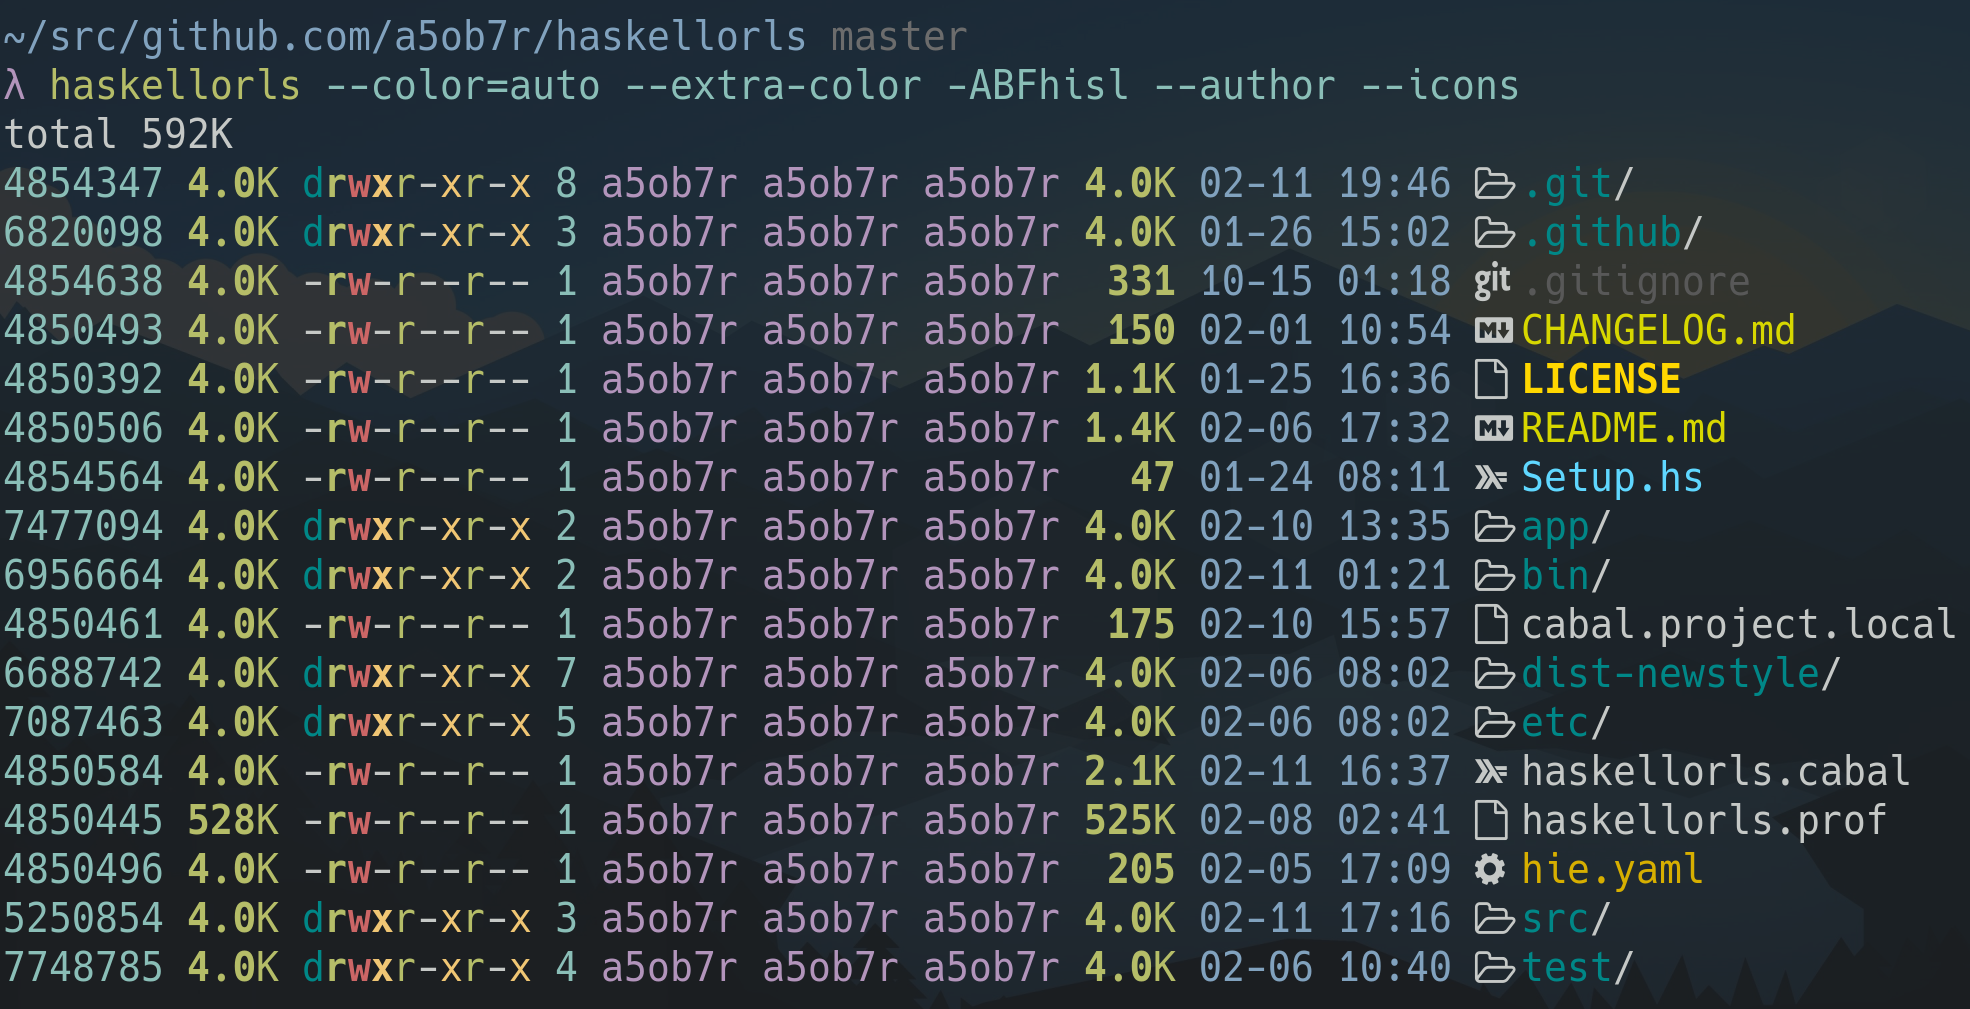
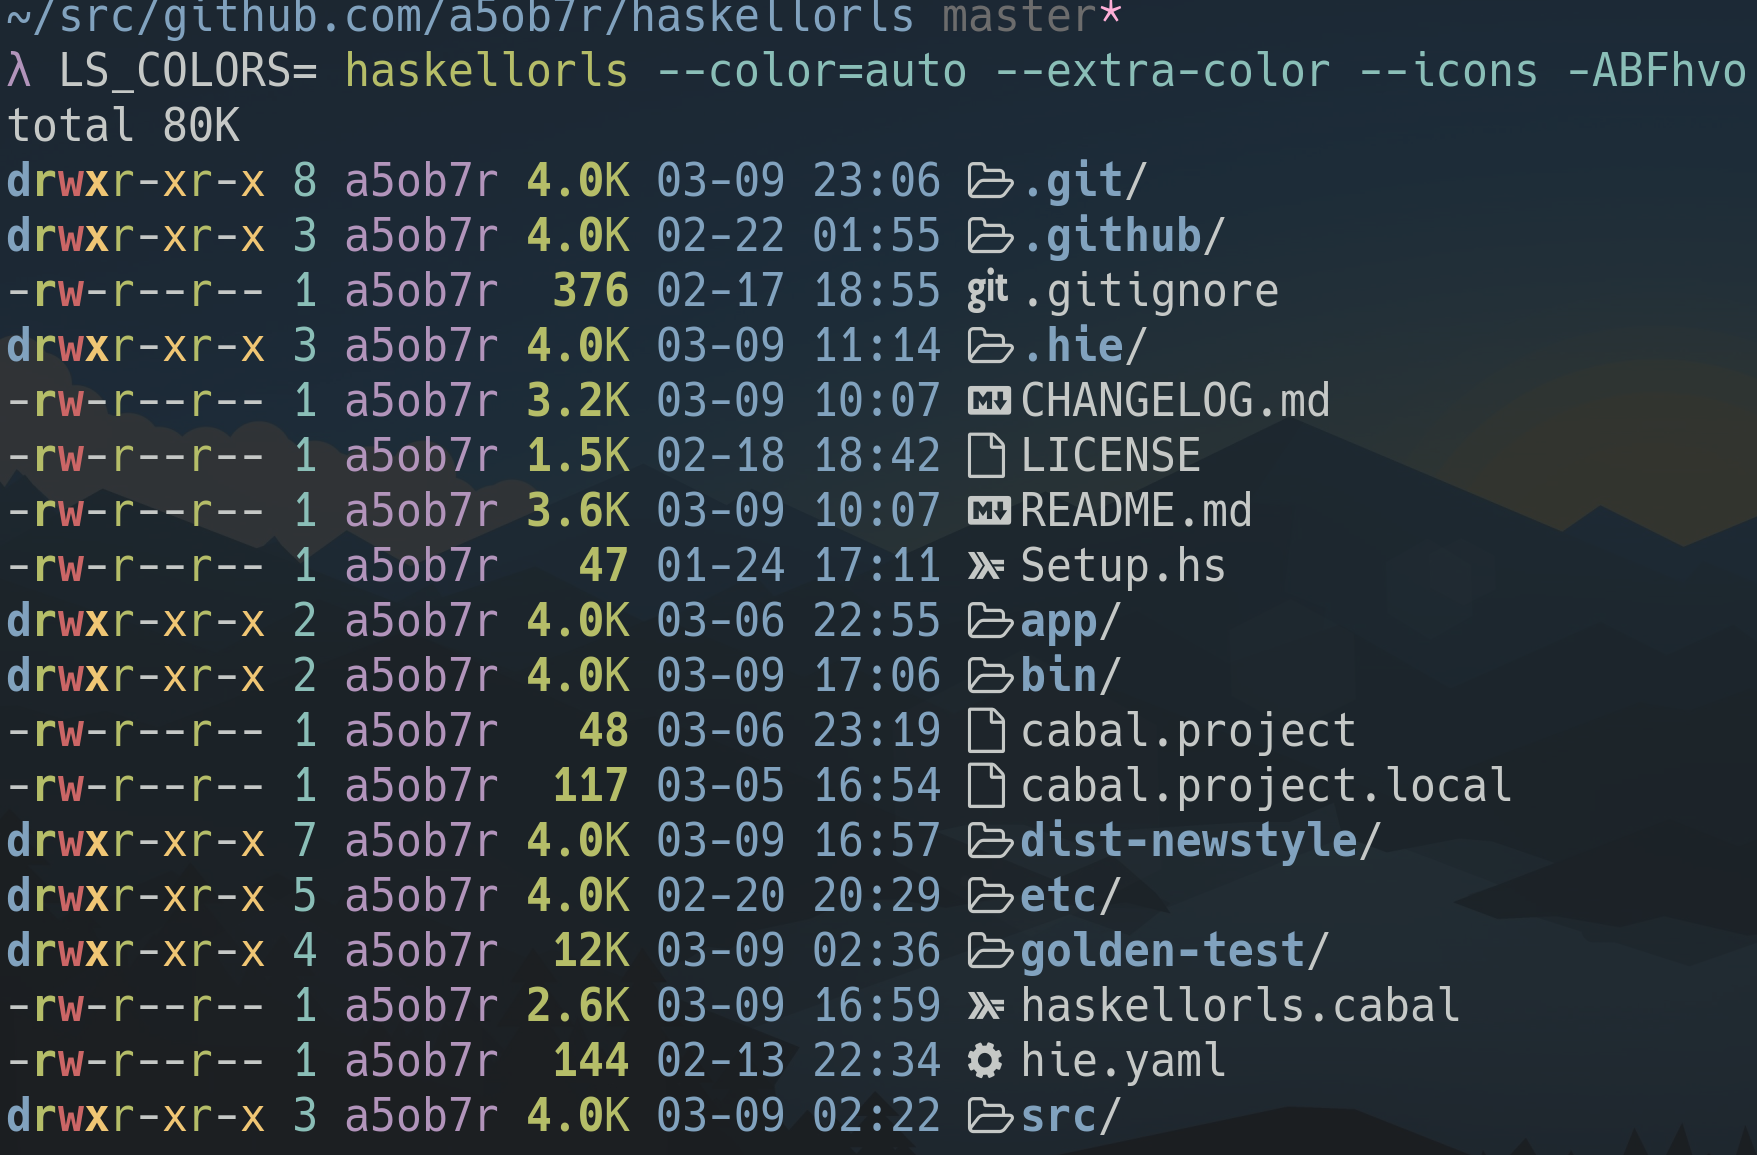
Update README

Changed region(s): [[0.0, 0.0, 1.0, 0.9832], [0.8913, 0.0307, 1.0, 0.0922], [0.7991, 0.0307, 0.8606, 0.0922]]

diff --git a/README.md b/README.md
@@ -11,6 +11,10 @@ In addition, has some extra options like some ls alternatives or replacements ha
 
 ![screenshort01](etc/screenshots/screenshot01.png)
 
+With [trapd00r/LS_COLORS](https://github.com/trapd00r/LS_COLORS/blob/master/LICENSE)
+
+![screenshort02](etc/screenshots/screenshot02.png)
+
 ## Extra Options
 
 Haskellorls has some extra options which are not implemented on GNU ls.
@@ -119,6 +123,7 @@ $ PATH="$PWD/bin:$PATH" goldplate golden-test --pretty-diff
 - Register to Hackage.
 - Add --head=N/--tail=N option to restrict max output file numbers.
   - This is useful with --recursive/-R
+- Update shell completions.
 - etc.
 
 ## NOTE
